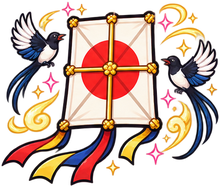
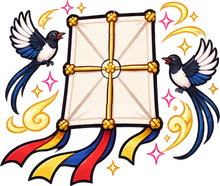
생존기: 제목 화면 추가 (시작을 누르면 무기 선택), 방패연 그림 교체
Claude-Session: https://claude.ai/code/session_01TJDp5YS9rpHwntYonjJV9L

diff --git a/survivor/index.html b/survivor/index.html
@@ -88,6 +88,15 @@
   #start .howto .kbd { text-shadow:none; }
   #start #title-text { color:#fff; text-shadow:0 3px 0 rgba(8,12,30,.9); }
   #start #title-logo { filter:drop-shadow(0 4px 8px rgba(8,12,30,.6)); }
+  #title { flex-direction:column; justify-content:space-between; padding:max(64px,7vh) 16px max(28px,7vh); background:linear-gradient(rgba(6,10,22,.05), rgba(6,10,22,0) 40%, rgba(6,10,22,.45)), url(img/start-bg.jpg) center/cover no-repeat #0b1228; }
+  #big-logo { width:min(1000px,94vw); max-height:34vh; object-fit:contain; filter:drop-shadow(0 6px 12px rgba(8,12,30,.65)); animation:logoFloat 3.2s ease-in-out infinite; }
+  #big-text { font-size:clamp(40px,9vw,96px); color:#fff; text-shadow:0 4px 0 rgba(8,12,30,.9); word-break:keep-all; text-align:center; }
+  #big-text b { color:#8fe07a; font-weight:normal; }
+  @keyframes logoFloat { 0%,100% { transform:translateY(0); } 50% { transform:translateY(-8px); } }
+  .title-bottom { text-align:center; }
+  #title-start { font-size:clamp(24px,4vw,36px); padding:16px 52px; animation:startPulse 1.4s ease-in-out infinite; }
+  @keyframes startPulse { 0%,100% { transform:scale(1); } 50% { transform:scale(1.06); } }
+  .title-tip { margin-top:14px; color:#fff; font-size:clamp(15px,2.2vw,19px); text-shadow:0 2px 0 rgba(8,12,30,.9), 0 0 8px rgba(8,12,30,.9); word-break:keep-all; }
   #title-logo { width:auto; max-width:92%; height:auto; max-height:min(124px,17vh); display:block; margin:0 auto 4px; }
   #title-text { font-size:clamp(30px,6vw,50px); color:var(--ink); line-height:1.15; word-break:keep-all; }
   #title-text b { color:#3e9a52; font-weight:normal; }
@@ -256,7 +265,15 @@
 <div id="touch-hint" class="hidden">화면을 누른 채로 끌면 꼬비가 움직여요</div>
 
 <!-- 시작 화면 -->
-<div class="ov" id="start">
+<div class="ov" id="title">
+  <img id="big-logo" src="img/logo.png" alt="꼬비의 도깨비숲 생존기" onerror="this.style.display='none';document.getElementById('big-text').classList.remove('hidden')">
+  <div id="big-text" class="hidden">꼬비의 <b>도깨비숲</b> 생존기</div>
+  <div class="title-bottom">
+    <button class="game-btn" id="title-start" type="button">▶ 게임 시작</button>
+    <p class="title-tip">무기를 고르고, 몰려오는 요괴를 피해 20분을 버텨요!</p>
+  </div>
+</div>
+<div class="ov hidden" id="start">
   <div class="panel">
     <img id="title-logo" class="hidden" src="img/logo.png" alt="꼬비의 도깨비숲 생존기">
     <div id="title-text">꼬비의 <b>도깨비숲</b> 생존기</div>
@@ -1996,6 +2013,9 @@ $('weapon-pick').addEventListener('click', e => {
   pickedWeapon = b.dataset.id; try { localStorage.setItem('survivor-weapon', pickedWeapon); } catch (er) {}
   buildPick();
 });
+function showTitle() { show('title'); hide('start'); hide('hud'); document.body.classList.remove('playing'); modal = 'title'; }
+$('title-start').addEventListener('click', () => { hide('title'); showStart(); });
+addEventListener('keydown', e => { if (modal === 'title' && (e.key === 'Enter' || e.key === ' ')) { e.preventDefault(); $('title-start').click(); } });
 function showStart() { buildPick(); show('start'); hide('hud'); document.body.classList.remove('playing'); modal = 'start'; }
 function startGame() {
   ensureAudio();
@@ -2030,7 +2050,7 @@ function loop(now) {
   render();
   requestAnimationFrame(loop);
 }
-showStart();
+showTitle();
 requestAnimationFrame(loop);
 // 확인용
 window.lastResultForSave = () => lastResult;
